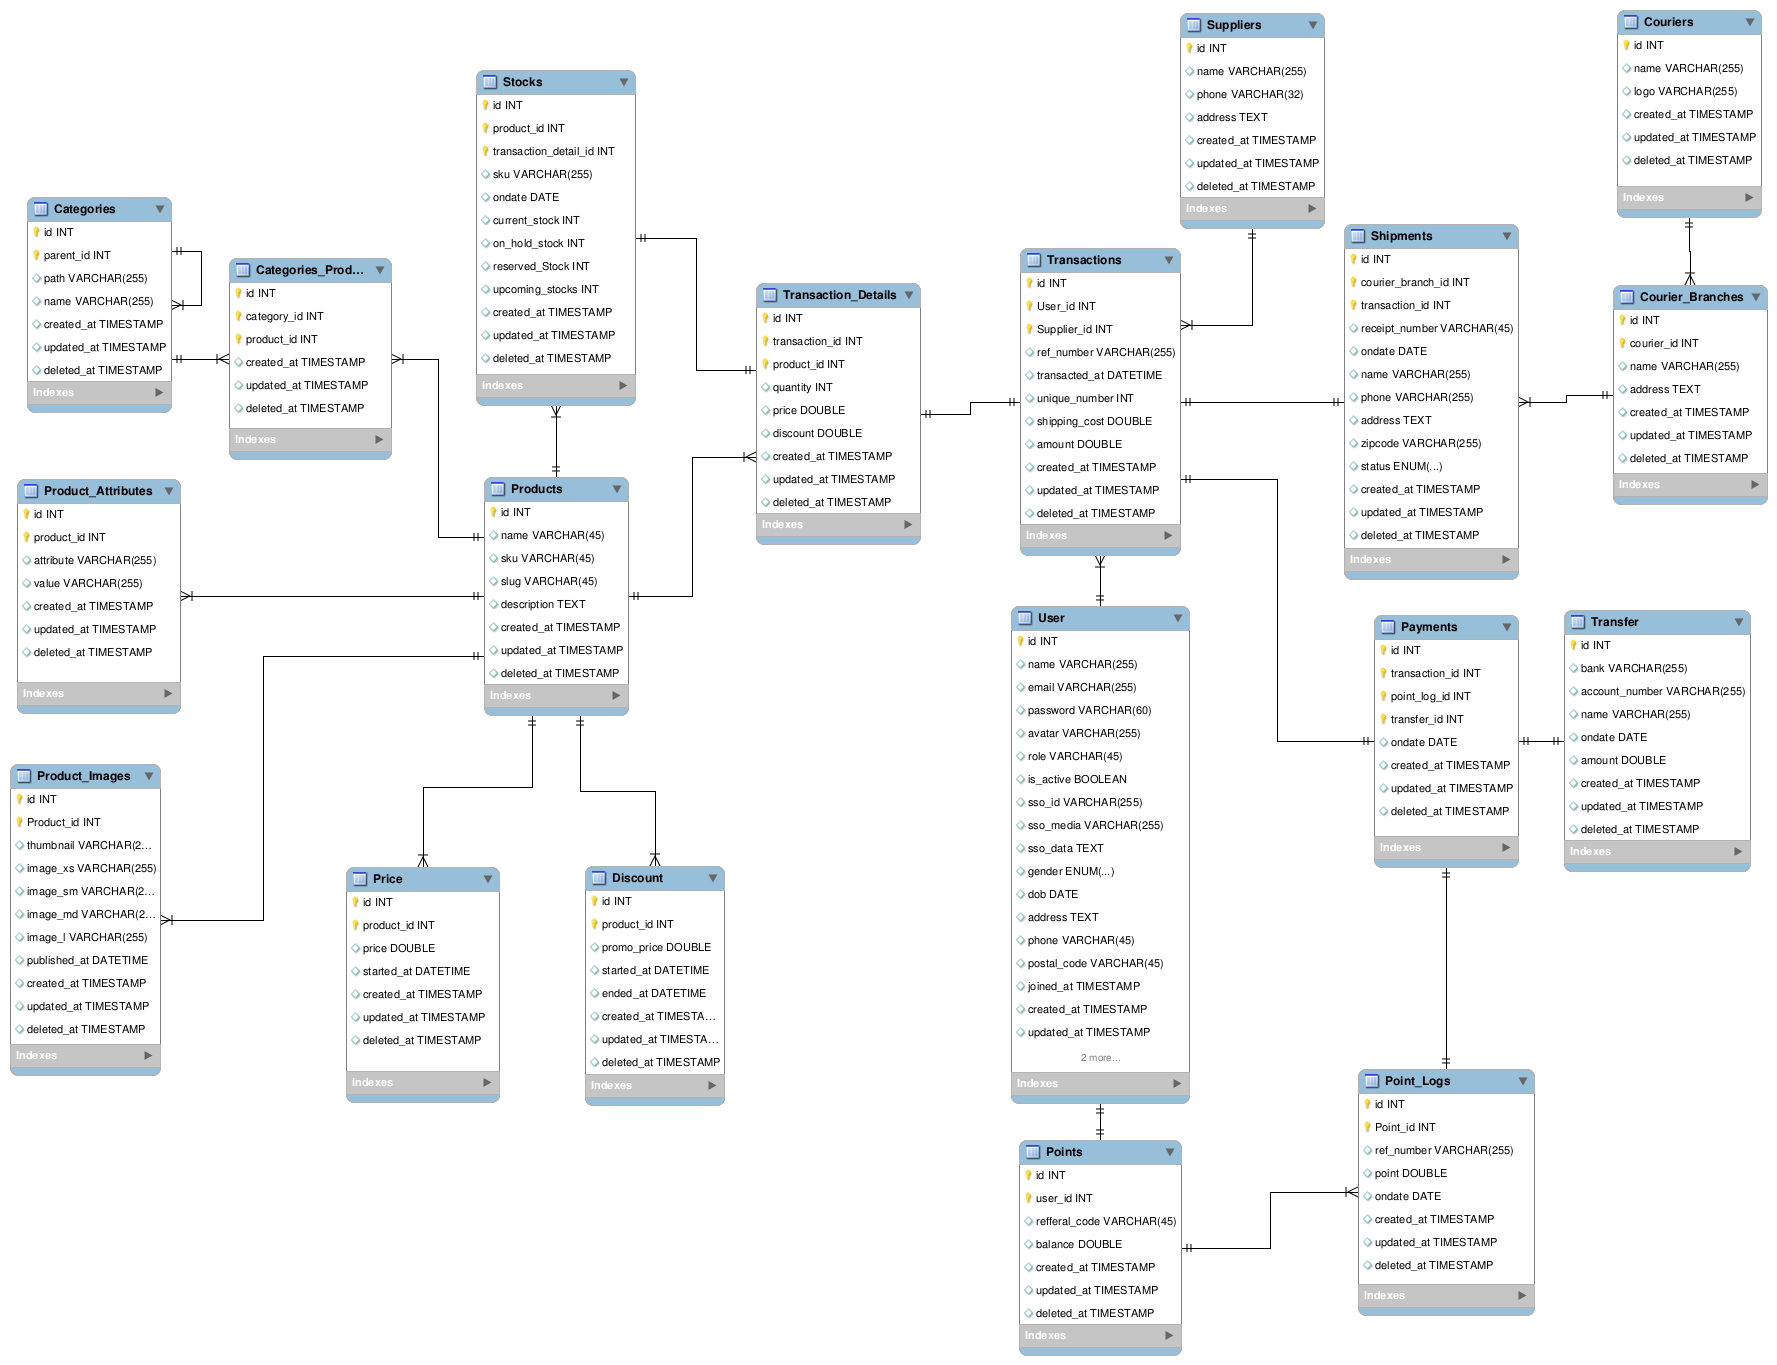
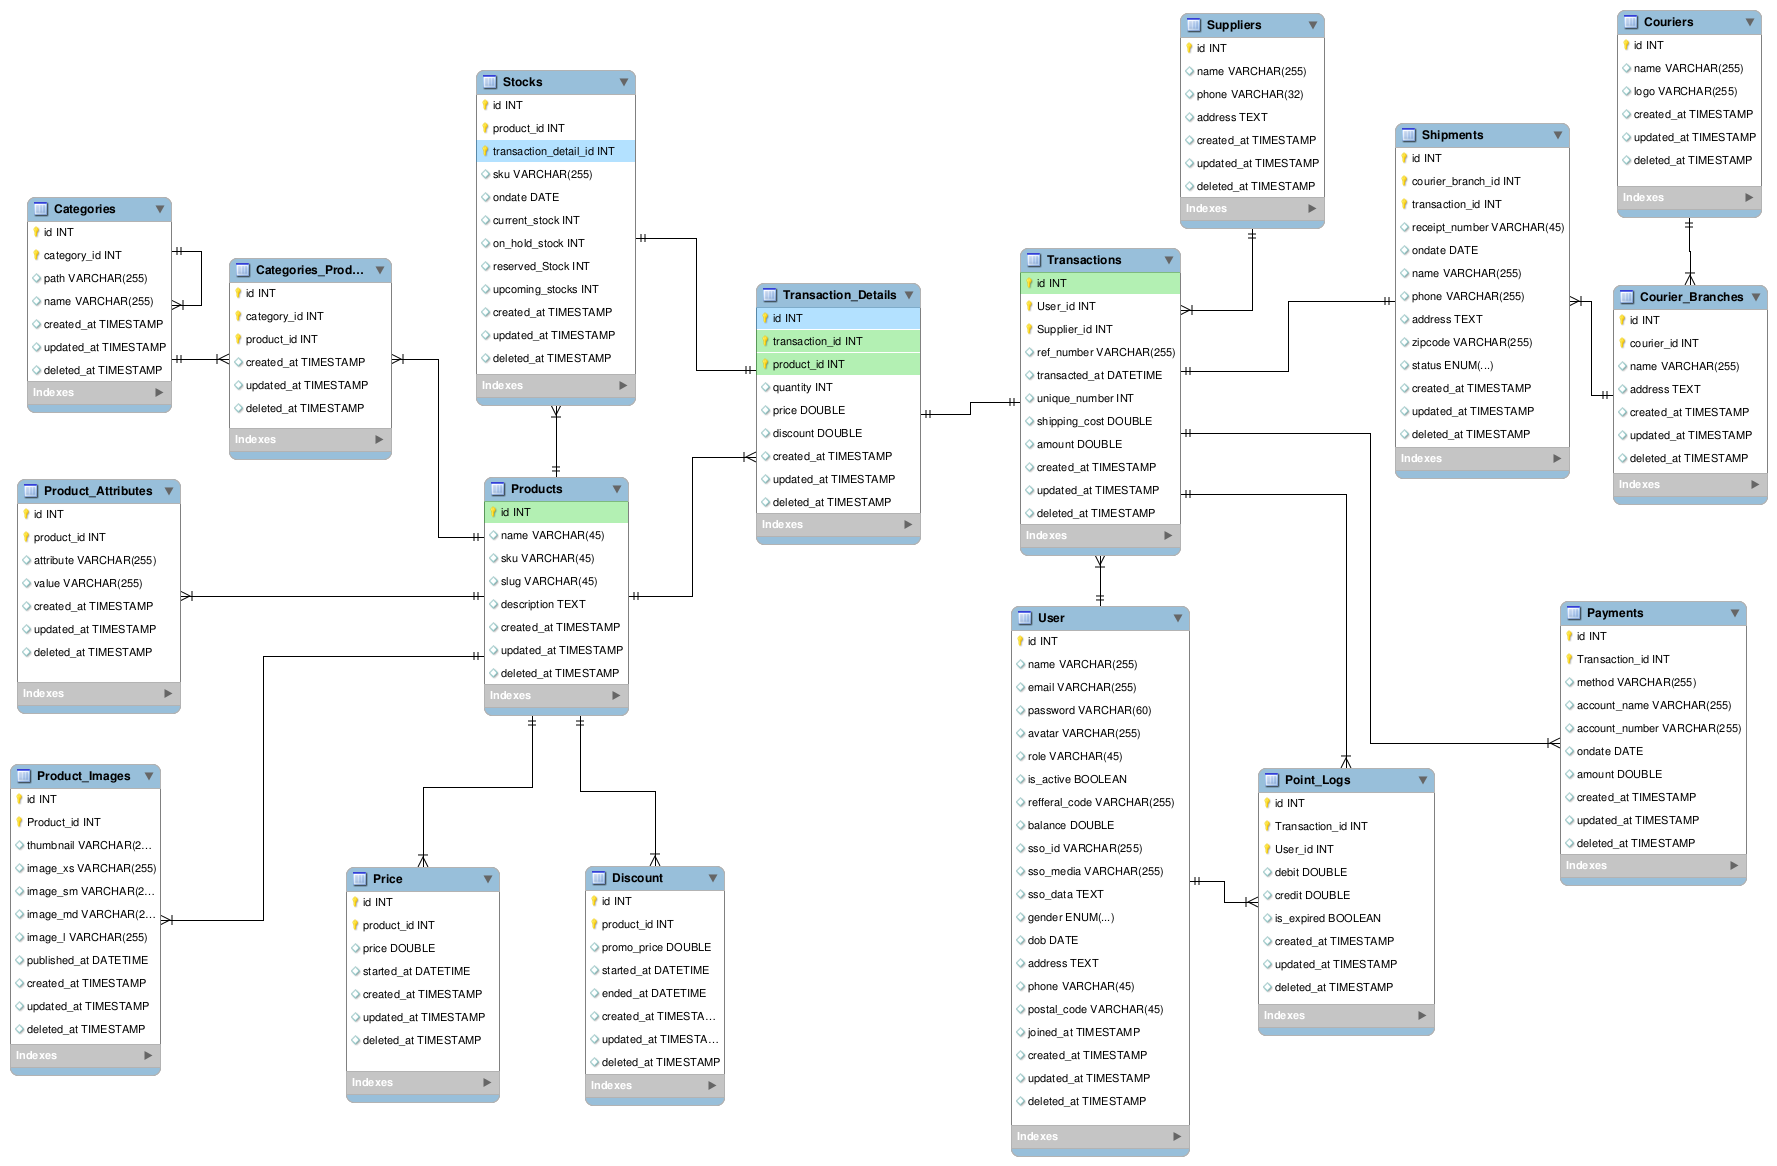
Repair Databases / migration based on new (ERD)

Changed region(s): [[0.5571, 0.0, 1.0, 1.0], [0.0, 0.0309, 0.4333, 0.9571], [0.4024, 0.1852, 0.5262, 0.494]]

diff --git a/database/migrations/2015_10_04_143646_create_payment_table.php b/database/migrations/2015_10_04_143646_create_payment_table.php
@@ -3,7 +3,7 @@
 use Illuminate\Database\Schema\Blueprint;
 use Illuminate\Database\Migrations\Migration;
 
-class CreateTransferTable extends Migration
+class CreatePaymentTable extends Migration
 {
     /**
      * Run the migrations.
@@ -12,9 +12,11 @@ class CreateTransferTable extends Migration
      */
     public function up()
     {
-        Schema::create('transfers', function (Blueprint $table) {
+        Schema::create('payments', function (Blueprint $table) {
             $table->increments('id');
-            $table->string('bank', 255);
+            $table->string('method', 255);
+            $table->string('account_name', 255);
+            $table->string('account_number', 255);
             $table->date('ondate');
             $table->double('amount');
             $table->timestamps();
@@ -29,6 +31,6 @@ class CreateTransferTable extends Migration
      */
     public function down()
     {
-        Schema::drop('transfers');
+        Schema::drop('payments');
     }
 }

diff --git a/database/migrations/2015_10_04_143646_create_user_table.php b/database/migrations/2015_10_04_143646_create_user_table.php
@@ -17,6 +17,8 @@ class CreateUserTable extends Migration
             $table->string('name', 255);
             $table->string('email', 255)->unique();
             $table->string('password', 60);
+            $table->string('refferal_code', 255)->unique();
+            $table->double('balance');
             $table->string('avatar', 255);
             $table->string('role', 255);
             $table->boolean('is_active');
@@ -29,6 +31,7 @@ class CreateUserTable extends Migration
             $table->string('phone', 20);
             $table->string('postal_code', 6);
             $table->datetime('joined_at');
+            $table->rememberToken();
             $table->timestamps();
             $table->softDeletes();
         });

diff --git a/database/migrations/2015_06_19_034756_create_point_log_table.php b/database/migrations/2015_06_19_034756_create_point_log_table.php
@@ -14,10 +14,11 @@ class CreatePointLogTable extends Migration
     {
         Schema::create('point_logs', function (Blueprint $table) {
             $table->increments('id');
-            $table->integer('point_id')->unsigned()->index();
-            $table->string('ref_number', 255);
-            $table->double('point');
-            $table->date('ondate');
+            $table->integer('transaction_id')->unsigned()->index();
+            $table->integer('user_id')->unsigned()->index();
+            $table->double('debit');
+            $table->double('credit');
+            $table->boolean('is_expired');
             $table->timestamps();
             $table->softDeletes();
         });

diff --git a/database/migrations/2015_09_26_034215_create_category_table.php b/database/migrations/2015_09_26_034215_create_category_table.php
@@ -14,7 +14,7 @@ class CreateCategoryTable extends Migration
     {
         Schema::create('categories', function (Blueprint $table) {
             $table->increments('id');
-            $table->integer('parent_id')->unsigned()->index();
+            $table->integer('category_id')->unsigned()->index();
             $table->string('path');
             $table->string('name');
             $table->timestamps();
